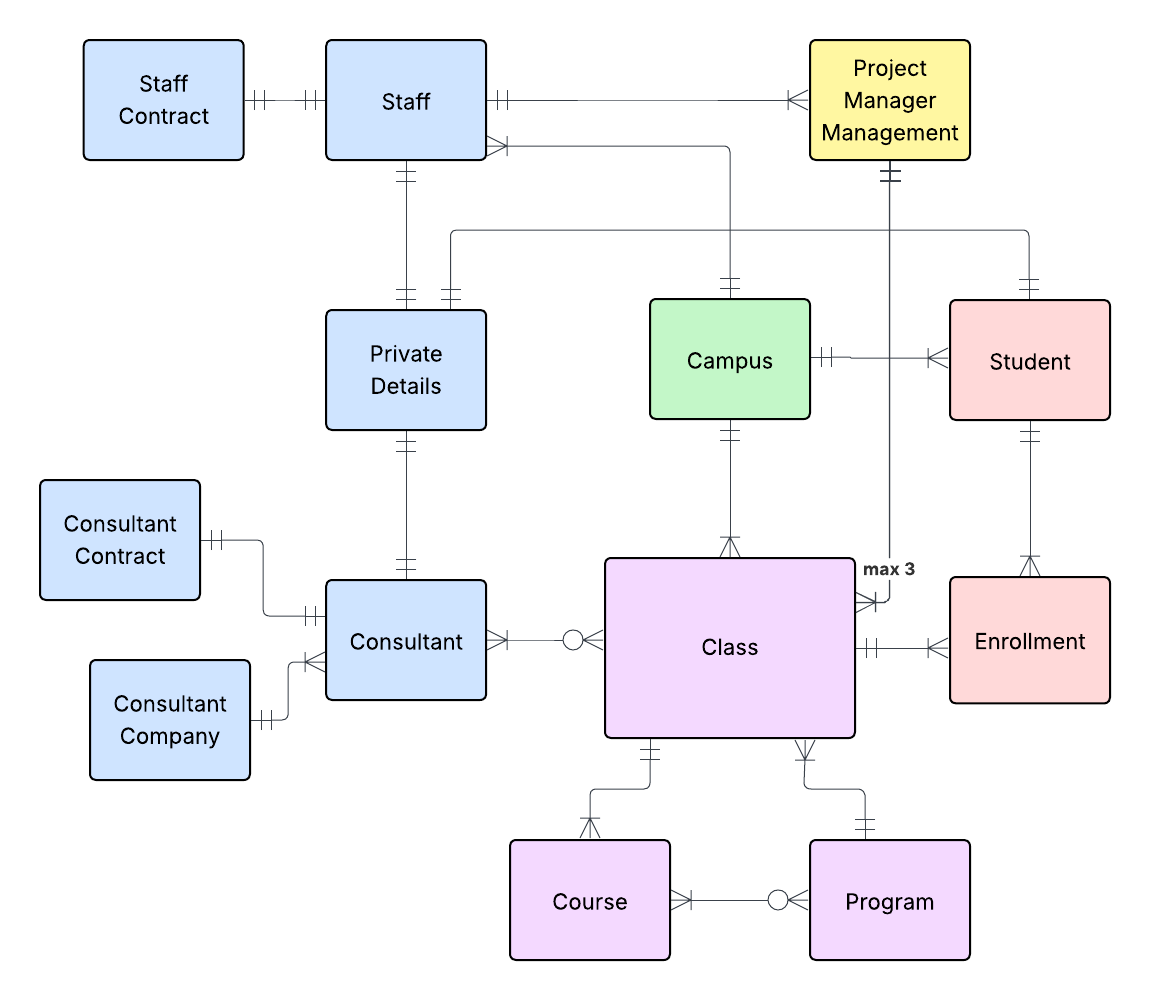
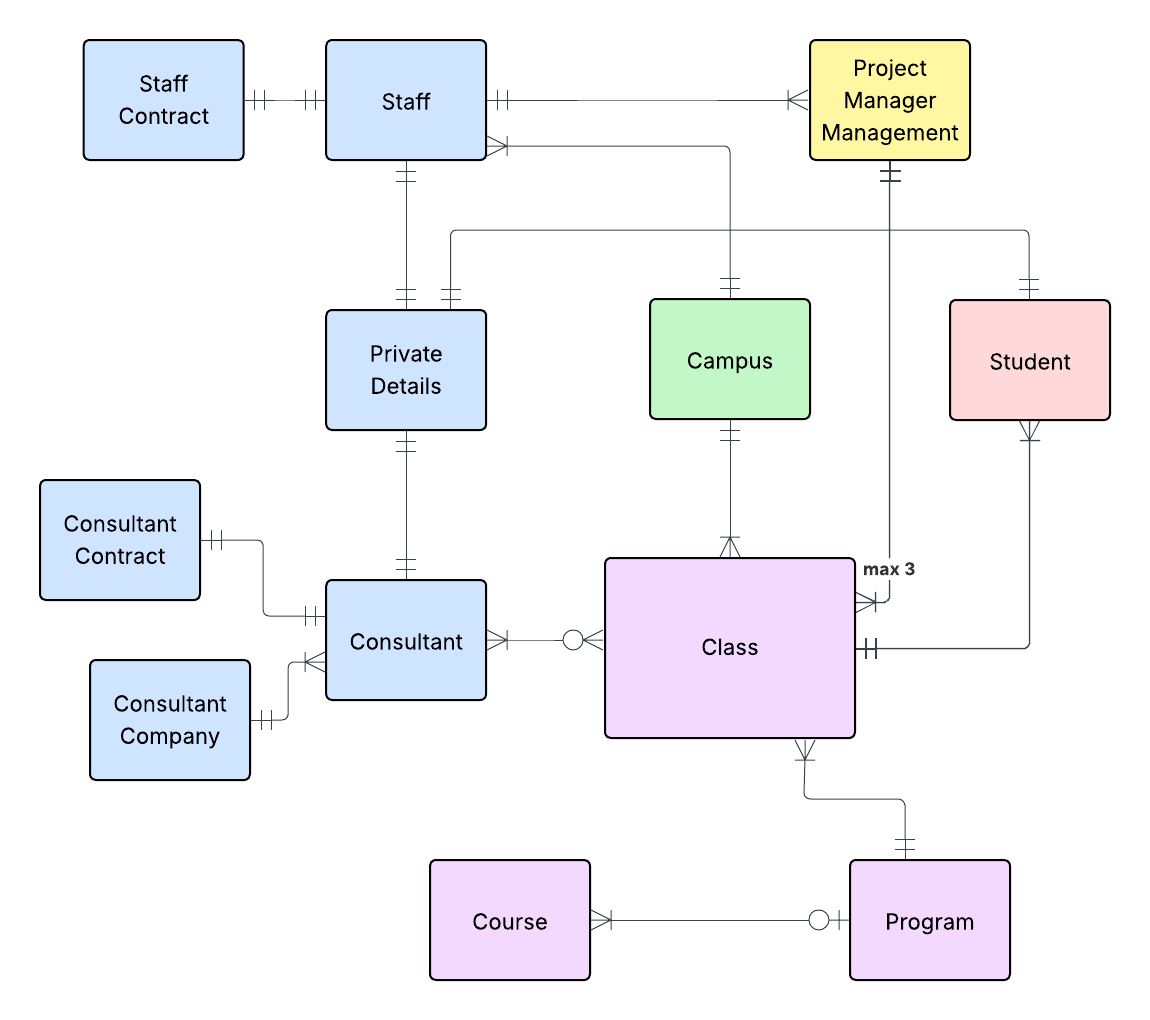
(chore): COnceptual Model, Entity Desc and Cardinalities

diff --git a/documentation/conceptual.md b/documentation/conceptual.md
@@ -2,43 +2,41 @@
 ## Goal: 
 - Map out the big picture for the business stakeholders. Focus on the "things" (Entities) and how they relate (Relationships).
 
-![Conceptual Model](../assets/conceptual.png)
+![Conceptual Model](../assets/Conceptual.png)
 
 ## Entity Descriptions
-| Entity                  | Description |
-|-------------------------|-------------|
-| **Student**             | A person studying at the school. A student enrolls in classes (2024, 2025, ...), then to Program of choice (Data Engineer,...) through enrollment process. Business rules control whether a student enrolls in a program class or standalone course classes within a given term. |
-| **Class**               | An approved, time-bound delivery of a program or standalone course (e.g. 2024, 2025, 2026). A class represents a specific approval round. |
-| **Program**             | A two-year education consisting of multiple courses. Each program is approved in three rounds, resulting in exactly three classes delivered over different years. A student may be enrolled in only one program per term. |
-| **Course**              | A course that may either be part of a program or offered as a standalone course. Courses are delivered through education classes. Students enroll in standalone courses by enrolling in the corresponding class. A student may enroll in a maximum of two standalone course classes per term (business rule).|
-| **Campus**              | A physical school location where programs and courses are delivered and where staff and consultants are assigned. The model supports future campus expansion. |
-| **Staff**               | Internal employees of the school, such as program managers or administrative staff. Each staff member has exactly one active staff contract at a time. |
-| **Consultant**          | External professionals hired to teach or support education classes. Consultants operate under time-limited contracts and may represent an external consultant company. |
-| **Consultant Company**  | An external company that employs or represents one or more consultants providing services to the school. |
-| **Staff Contract**      | A time-bound agreement defining a staff member’s role, campus assignment, salary, and employment period. Only one staff contract may be active per person at any time. |
-| **Consultant Contract** | A time-bound agreement defining a consultant’s assignment, campus, compensation, and contract period. Only one consultant contract may be active per person at any time. |
-| **Enrollment**          | Represents a student’s enrollment in an education class. Each enrollment links exactly one student to exactly one class. |
-| **Private Details**     | Stores sensitive personal or company information, such as personal identity numbers and contact details. This data is isolated for security, privacy, and access control purposes. |
-| **Program Manager**     | A staff role responsible for managing education classes. Each program manager manages exactly three classes, and each class has exactly one program manager. |
 
+| Entity                         | Description                                                                                                                                                                                              |
+| ------------------------------ | -------------------------------------------------------------------------------------------------------------------------------------------------------------------------------------------------------- |
+| **Student**                    | A person enrolled at the school. A student belongs to exactly one class. Students do not enroll directly in programs or courses; enrollment is always mediated through a class.       |
+| **Class**                      | An approved, time-bound delivery of an education program (e.g. DE24, DE25). A class represents a specific approval round of a program, is assigned to one campus, and groups students studying together. |
+| **Program**                    | A two-year education offering consisting of multiple predefined courses. A program defines the curriculum and may be approved multiple times over different years, resulting in multiple classes.        |
+| **Course**                     | A unit of education with defined content, credits, and learning objectives. A course may belong to one program or exist independently as a standalone course. Courses are not directly owned by classes. |
+| **Campus**                     | A physical school location where classes are delivered. Each class is associated with exactly one campus.                                                                                                |
+| **Staff**                      | Internal employees of the school, such as program managers or administrative personnel. Each staff member operates under exactly one active staff contract at a time.                                    |
+| **Staff Contract**             | A time-bound employment agreement defining a staff member’s role, campus assignment, compensation, and employment period. Only one staff contract may be active per staff member at any time.            |
+| **Consultant**                 | External professionals engaged by the school to teach or support classes. Consultants operate under consultant contracts and may be associated with a consultant company.                                |
+| **Consultant Contract**        | A time-bound agreement defining a consultant’s assignment, compensation, campus affiliation, and contract period. Only one active contract may exist per consultant at a time.                           |
+| **Consultant Company**         | An external organization that employs or represents one or more consultants providing services to the school.                                                                                            |
+| **Private Details**            | A secured entity containing sensitive personal or company information, such as personal identity numbers and contact details. Access is restricted for privacy and compliance reasons.                   |
+| **Project Manager Management** | An assignment entity representing the responsibility of a staff member acting as program manager for education classes. It enforces managerial constraints between staff and classes.                    |
 
 
 
 ## Relationship Descriptions
 
-| Entity A                   | Entity B                   | Cardinality           | Description                                                                                         |
-| -------------------------- | -------------------------- | --------------------- | --------------------------------------------------------------------------------------------------- |
-| Staff                      | Staff Contract             | 1 : 1                 | Each staff member has exactly one active staff contract. Each contract belongs to one staff member. |
-| Consultant                 | Consultant Contract        | 1 : 1                 | Each consultant has exactly one consultant contract. Each contract belongs to one consultant.       |
-| Consultant                 | Consultant Company         | N : 1                 | Each consultant works for one consultant company. A company can have many consultants.              |
-| Staff                      | Private Details            | 1 : 1                 | Each staff member has exactly one private details record.                                           |
-| Consultant                 | Private Details            | 1 : 1                 | Each consultant has exactly one private details record.                                             |
-| Campus                     | Class                      | 1 : N                 | A campus offers many classes. Each class is offered at exactly one campus.                          |
-| Program                    | Class                      | 1 : N                 | A program consists of many classes. Each class belongs to exactly one program.                      |
-| Course                     | Class                      | 1 : N                 | A course can be delivered through multiple classes. Each class delivers exactly one course.         |
-| Student                    | Enrollment                 | 1 : N                 | A student can have many enrollments. Each enrollment belongs to exactly one student.                |
-| Class                      | Enrollment                 | 1 : N                 | A class can have many enrollments. Each enrollment refers to exactly one class.                     |
-| Consultant                 | Class                      | 1 : N (0..1 on Class) | A consultant may teach multiple classes. A class may have zero or one consultant.                   |
-| Project Manager Management | Class                      | 1 : N (max 3)         | A program manager manages up to three classes. Each class has exactly one program manager.          |
-| Staff                      | Project Manager Management | 1 : N                 | A staff member may act as program manager for multiple classes through management assignments.      |
-
+| Entity A                       | Entity B                       | Cardinality   | Description                                                                                                                              |
+| ------------------------------ | ------------------------------ | ------------- | ---------------------------------------------------------------------------------------------------------------------------------------- |
+| **Staff**                      | **Staff Contract**             | 1 : 1         | Each staff member has exactly one active staff contract, and each staff contract belongs to exactly one staff member.                    |
+| **Consultant**                 | **Consultant Contract**        | 1 : 1         | Each consultant operates under exactly one active consultant contract, and each contract belongs to one consultant.                      |
+| **Consultant**                 | **Consultant Company**         | N : 1         | Each consultant is associated with one consultant company. A consultant company may represent many consultants.                          |
+| **Staff**                      | **Private Details**            | 1 : 1         | Each staff member has exactly one private details record storing sensitive information.                                                  |
+| **Consultant**                 | **Private Details**            | 1 : 1         | Each consultant has exactly one private details record storing sensitive information.                                                    |
+| **Campus**                     | **Class**                      | 1 : N         | A campus may host many classes. Each class is delivered at exactly one campus.                                                           |
+| **Program**                    | **Class**                      | 1 : N         | A program may be approved multiple times, resulting in multiple classes over different years. Each class belongs to exactly one program. |
+| **Program**                    | **Course**                     | 1 : N         | A program consists of one or more courses that define its curriculum.                                                                    |
+| **Course**                     | **Program**                    | 0 : 1         | A course may belong to one program or exist independently as a standalone course.                                                        |
+| **Student**                    | **Class**                      | N : 1         | Each student belongs to exactly one class per term. A class may contain many students.                                                   |
+| **Consultant**                 | **Class**                      | 0..N : 0..N   | A consultant may teach multiple classes, and a class may be taught by zero or more consultants.                                          |
+| **Staff**                      | **Project Manager Management** | 1 : N         | A staff member may be assigned as program manager for multiple classes through management assignments.                                   |
+| **Project Manager Management** | **Class**                      | 1 : N (max 3) | Each program manager manages up to three classes. Each class is managed by exactly one program manager.                                  |

diff --git a/documentation/business_requirements.md b/documentation/business_requirements.md
@@ -18,8 +18,8 @@ This document consolidates business domain / entity, and each section clearly de
 - Business Rules
 - A student can:
     - enroll in one program per term, OR
-    - enroll in up to two standalone courses (courses that does not exist in program) per term.
-    - A student may not be enrolled in a program and standalone courses at the same time.
+    - enroll in ONE standalone courses (courses that does not exist in program) per term.
+    - A student may not be enrolled in a program and standalone course at the same time.
 
 ### Logical / Normalization Rules
 - Student stores only identity-level attributes.
@@ -79,20 +79,16 @@ This document consolidates business domain / entity, and each section clearly de
 
 ## 4. Education Structure
 ### 4.1 Program
-
-- Business Rules
-    - A program is a two-year education consisting of multiple courses.
-    - Includes mandatory internship (LIA).
-    - Each program is approved once per term, creating multiple classes every year.
+- A program is a two-year education consisting of multiple courses, including mandatory internship (LIA). 
+- A program may be approved multiple times over different years; each approval creates one Class (e.g., DE24, DE25, DE26). 
+- Each Class belongs to exactly one Program.
 
 ### 4.2 Course
-
-- Business Rules
-    - A course has course name, credits, description, and program_id.
-
-- A course can either:
-    - belong to 0 or more programs ie.(Python -> DE24, DE25), OR
-    - be a standalone course.
+- A course has a course name, course code, credits, and a short description. 
+- A course may either:
+    - belong to one Program (program course), or
+    - belong to no Program (standalone course). 
+- Courses are delivered to classes through teaching/delivery assignments; courses are not owned directly by classes (conceptually).
 
 - Logical / Normalization Rules
     - program_id nullable
@@ -101,18 +97,10 @@ This document consolidates business domain / entity, and each section clearly de
     - IF `program_id` IS NULL AND `course_id` IS NOT NULL → standalone course
     - And vice versa
 
-### 4.3 Education Class
-- Business Rules
-    - A Class (2024, 2025, ...) is the only entity that connects Students to Programs or Courses.
-    - Represents an approved delivery of a program or course and campus.
-    - Must be associated with either one Program or (2 max) Courses, never both.
-
-
-- Logical / Normalization Rules
-    - Mutually exclusive foreign keys:
-    - Exactly one of program_id or course_id must be populated.
-    - IF `program_id` IS NULL AND `course_id` IS NOT NULL → Student studies COURSE
-    - IF `program_id` IS NOT NULL AND `course_id` IS NULL → Student studies program
+### 4.3 Class
+- A Class (e.g., DE24, DE25, DE26) represents an approved delivery instance of a Program.
+- A class groups students who study together under the same program approval round and is delivered at one campus.
+- Students enroll in a class; students do not enroll directly in programs or courses.
 
 ## 5. Enrollment
 ### 5.1 Enrollment
@@ -126,12 +114,9 @@ This document consolidates business domain / entity, and each section clearly de
 
 ## 6. Program Manager ??
 - Business Rules
-    - Each education class must have exactly one program manager.
+    - Each class class must have exactly one program manager.
     - A program manager must manage at least three education classes.
     - Maximum of three concurrent classes per program manager.
-
-- Logical / Normalization Rules
-???
 
 ## 7. Campus
 ### 7.1 Campus

diff --git a/documentation/logical.md b/documentation/logical.md
@@ -4,33 +4,3 @@
 
 ![Logical Model](../assets/Logical.png)
 
-## Consultant, Staff and Staff Role → Contract
-nforces “one role per active contract”
-- All attributes are still fully dependent on the primary key
-- No attribute is dependent on another isolated attribute 
-- No data redundancy exists if constraints are enforced in the model and business requirements
-    - `Staff` → `fixed_salary` **IS NOT NULL** AND `hourly_rate` **IS NULL**
-    - `Consultant` → `hourly_rate` **IS NOT NULL** AND `fixed_salary` **IS NULL**
-
-## Campus → Contract
-- One campus can be associated with many contracts. Each contract is assigned to exactly one campus.
-
-## Staff, Consultant and Student → Private Details
-- Sensitive personal data is isolated in a dedicated Private Details entity. 
-- Staff, Consultant, and Student reference this entity via foreign keys, ensuring that all non-key attributes depend solely on their respective primary keys. 
-- No sensitive attributes are duplicated, and no transitive dependencies exist.
-
-## Staff → Program Manager Assignment →  Education Class
-- Staff 1 → many Program Manager Assignments
-- Education Class 1 → 1 Program Manager Assignment
-- Each class has exactly one Program Manager
-- A Program Manager manages multiple classes (max 3)
-
-## Consultant → Consultant Teaches →  Education Class
-Consultant Teaches is modeled as a pure associative entity resolving the many-to-many relationship between Consultant and Education Class. It contains no descriptive attributes and introduces no transitive dependencies, ensuring Third Normal Form.
-
-## Student → Enrollment → Education Class → Campus
-Student stores only student identity attributes and references Private Details. Enrollment models the association between Student and Education Class, including enrollment lifecycle attributes. Campus is associated to Education Class, and is derived through joins rather than duplicated on Student, eliminating redundancy and transitive dependencies and ensuring 3NF.
-
-## Student → Enrollment →  Course (inclduing Standalone) / Program 
-Students enroll in Education Classes, which represent either approved program intakes or standalone course offerings. This is enforced by mutually exclusive foreign keys to Program or Course, making the enrollment rules explicit while maintaining Third Normal Form.
